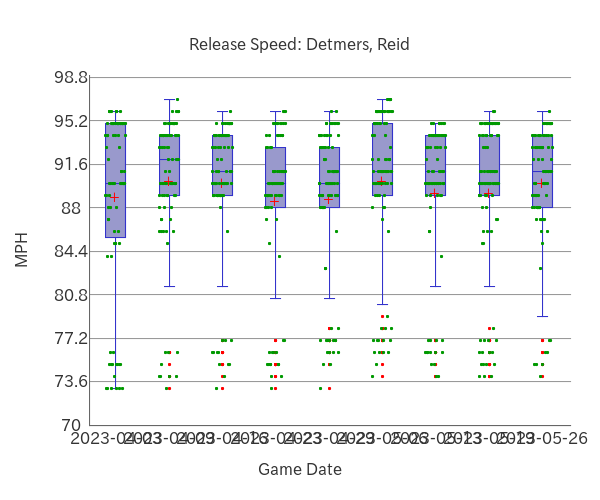
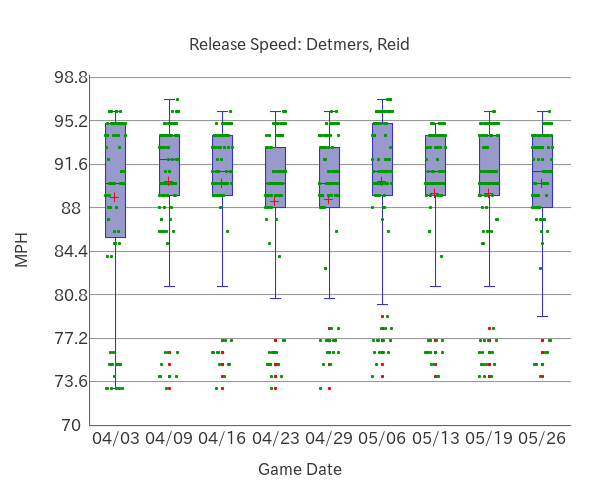
update docs

Changed region(s): [[0.12, 0.84, 0.99, 0.9]]

diff --git a/example/DetmersReidBoxplot2023.php b/example/DetmersReidBoxplot2023.php
@@ -12,12 +12,17 @@ $dailyData = $csvUtil->getDailyData($csvFileName);
 if (!$dailyData) {
     echo "Failed to load CSV data.\n\n";
 }
+$labels = [];
+foreach (array_keys($dailyData) as $datestring) {
+    $labels[] = preg_replace('/^\d+\-(\d+)\-(\d+)$/', '$1/$2', $datestring);
+}
 
 $filePath01 = 'img/BoxplotDetmersReid2023_01.png';
 $filePath02 = 'img/BoxplotDetmersReid2023_02.png';
 
 $bp
    ->setData($dailyData)
+   ->setLabels($labels)
    ->setLabelX('Game Date')
    ->setLabelY('MPH')
    ->setCaption('Release Speed: Detmers, Reid')
